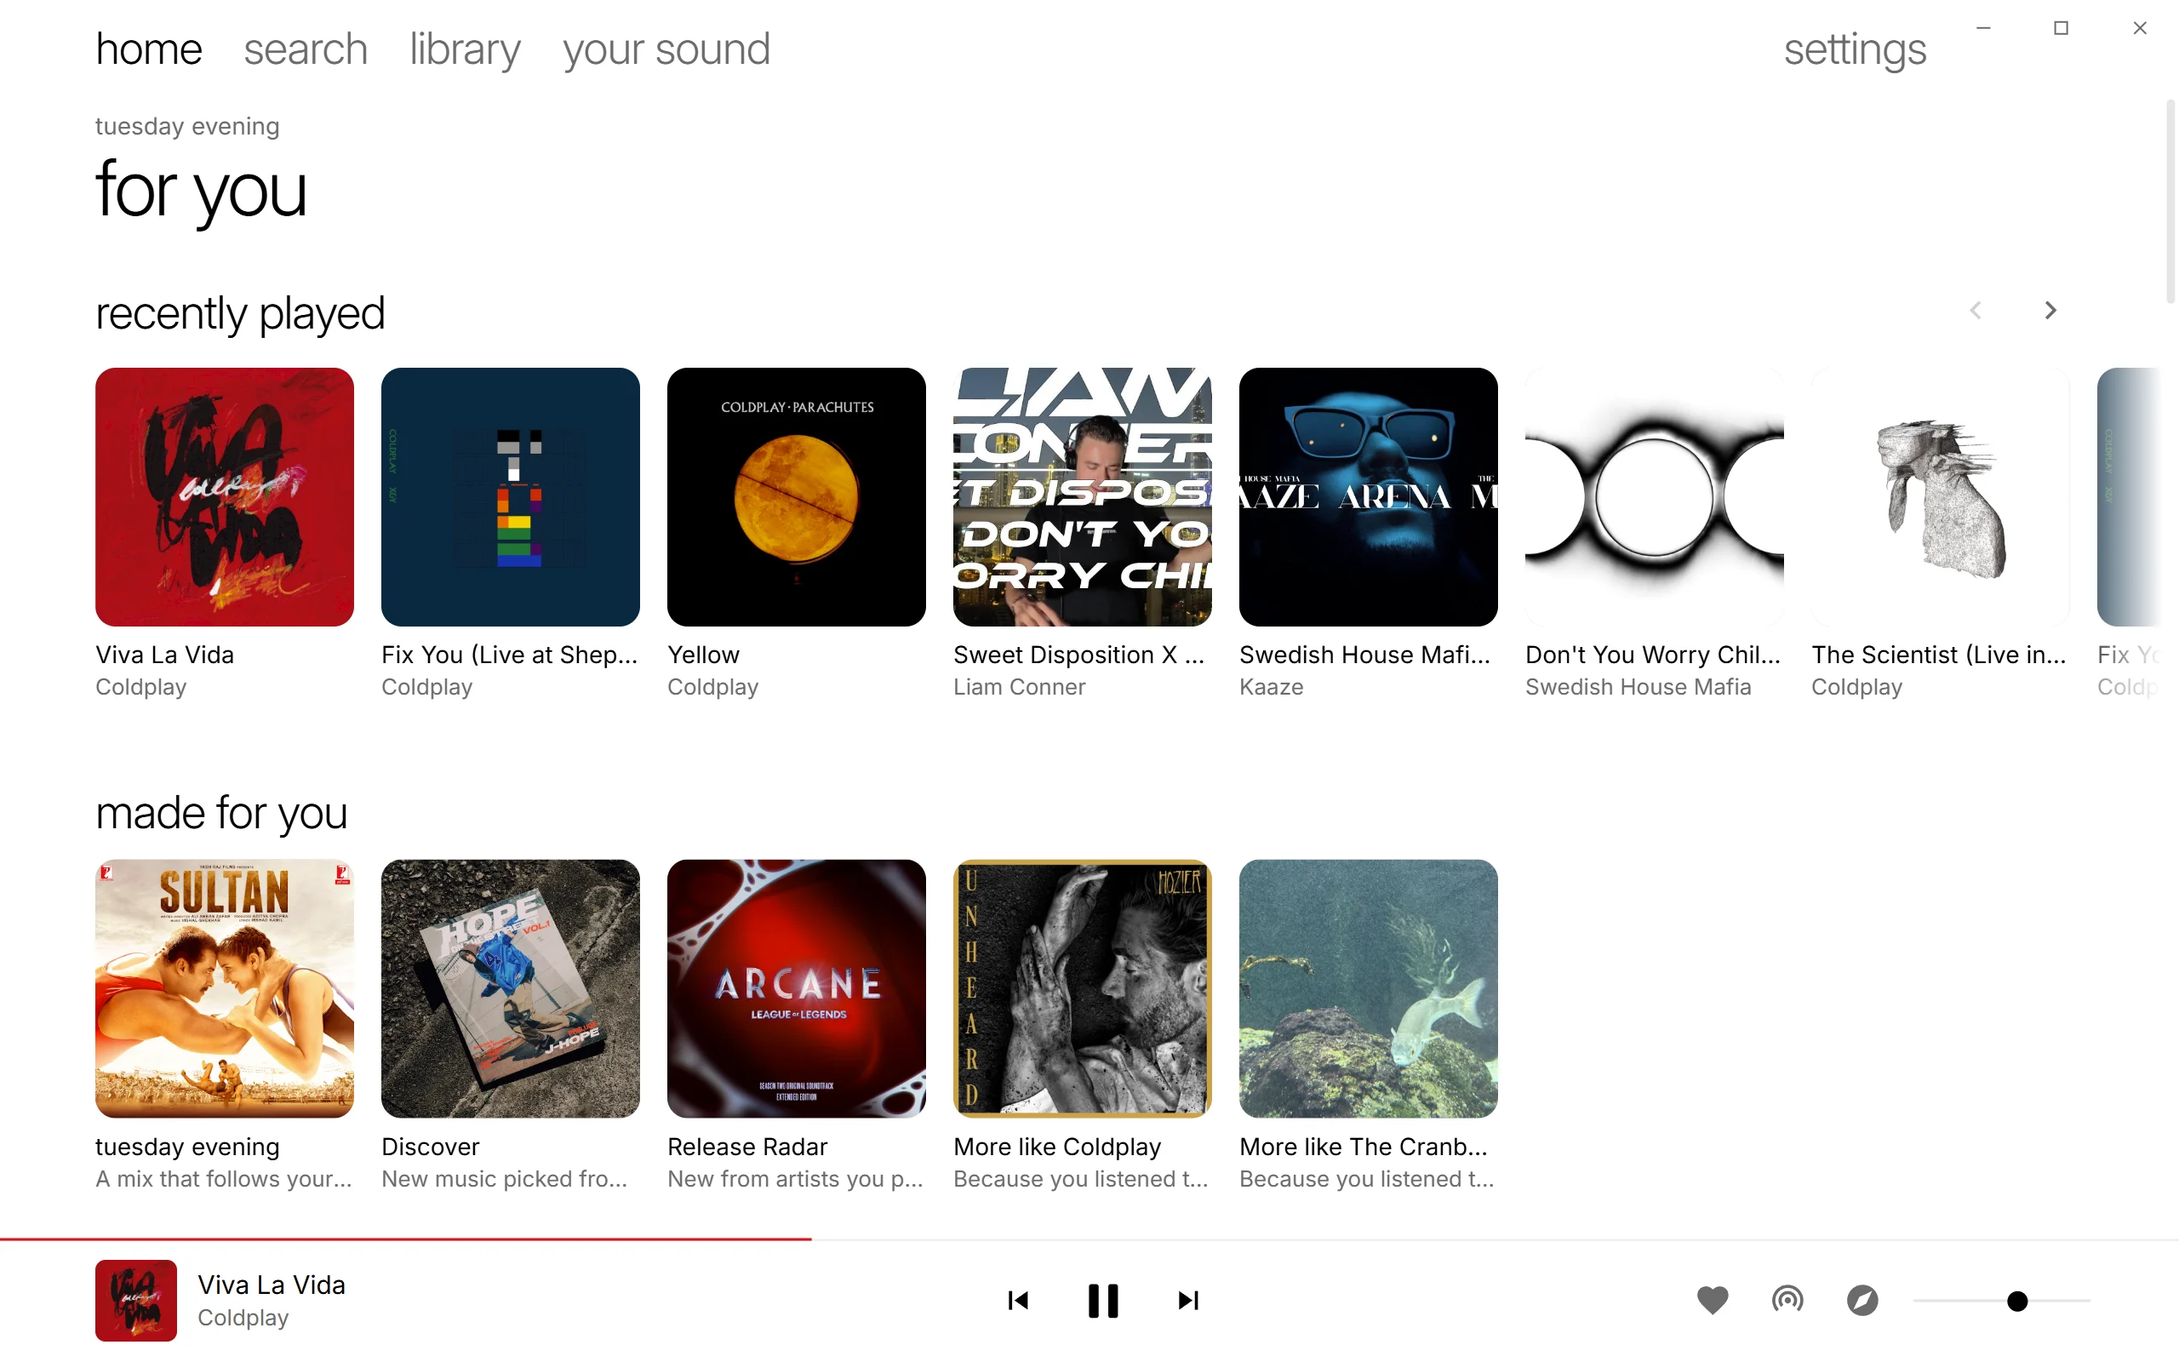
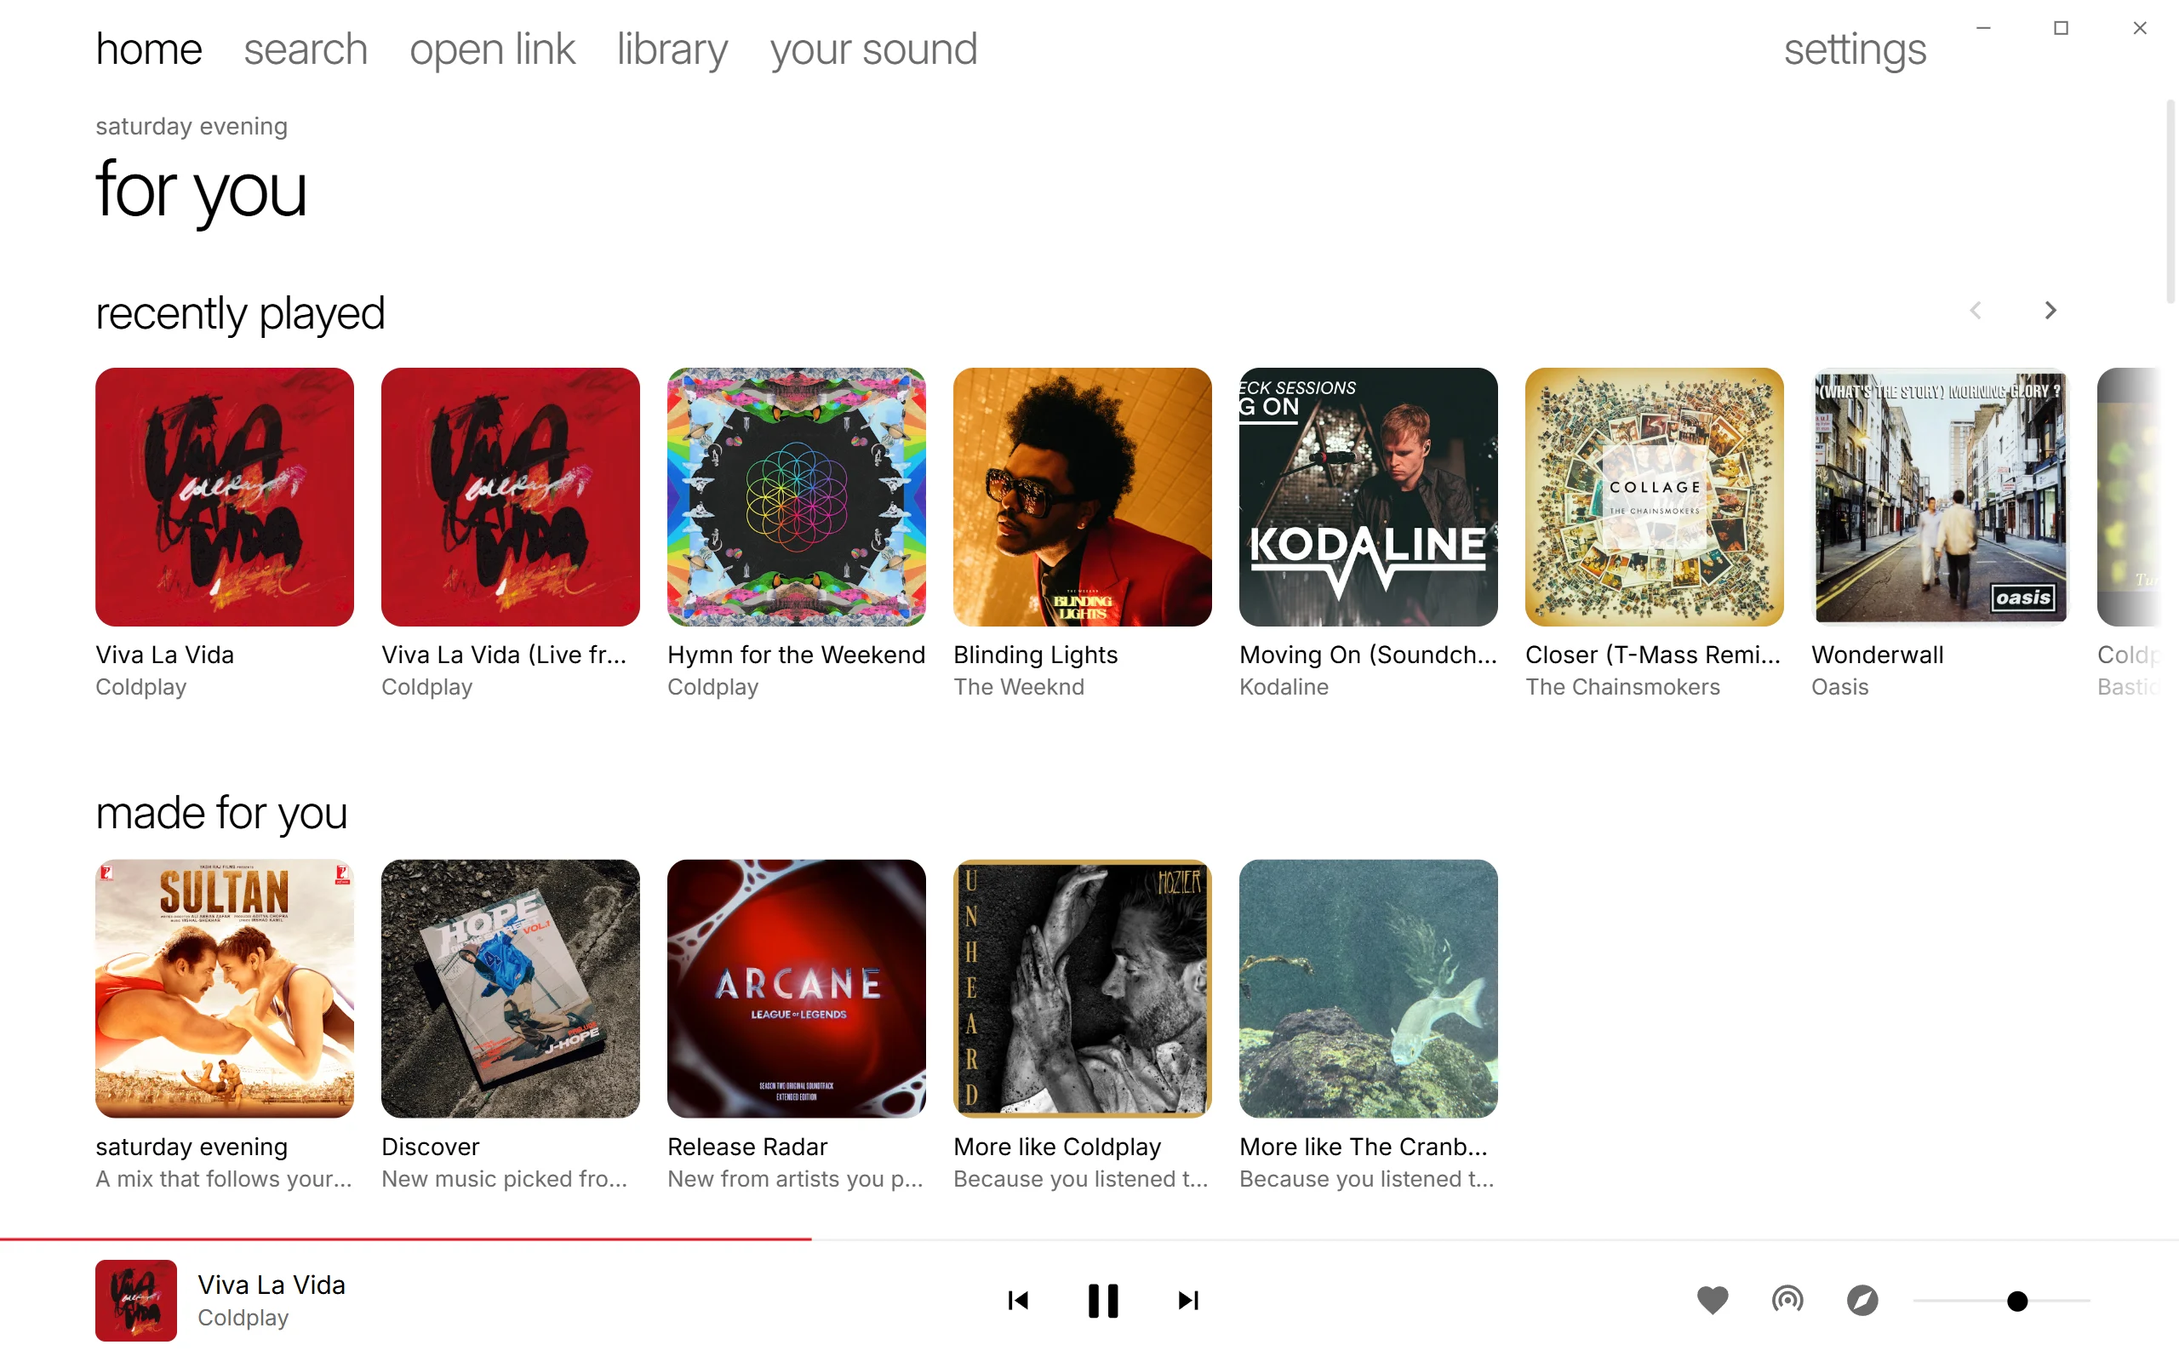
Verza, not Verza Next, and pictures of 1.15.0
The README still showed the liquid-glass build and described features that are gone. It now shows
the app as it is, with open link, and calls it Verza. The website's pictures are retaken on 1.15.0,
which has open link in the top bar, and the list of everything else gains it.

diff --git a/docs/index.html b/docs/index.html
@@ -19,7 +19,7 @@
 <link rel="preload" href="assets/inter.woff2" as="font" type="font/woff2" crossorigin>
 <script type="application/ld+json">
 [{
-  "@context": "https://schema.org", "@type": "SoftwareApplication", "name": "Verza Next",
+  "@context": "https://schema.org", "@type": "SoftwareApplication", "name": "Verza",
   "applicationCategory": "MultimediaApplication", "applicationSubCategory": "Music Player",
   "operatingSystem": "Windows 10, Windows 11, Linux",
   "description": "A free, ad-free YouTube Music player for Windows and Linux with lossless downloads, time-synced lyrics, an equaliser, and handover to and from the phone app.",
@@ -50,7 +50,7 @@
 /* Verza's website, in the apps' own design: a true black or white page, a name set very large and
    light in lowercase, buttons that are just the word, one 12px corner, and one accent. In the apps the
    accent comes from the cover of what's playing; here each section is a track with a colour of its
-   own, and the dock at the bottom plays the page. The numbers are style.css's in the Verza Next repo. */
+   own, and the dock at the bottom plays the page. The numbers are style.css's in the Verza repo. */
 @font-face {
   font-family: 'Inter'; font-style: normal; font-weight: 100 900; font-display: swap;
   src: url('assets/inter.woff2') format('woff2');
@@ -304,8 +304,8 @@ html:not(.playing) .i-pause, html.playing .i-play { display: none; }
     </div>
   </div>
   <div class="stage">
-    <img class="shot wide d" src="assets/next-player-dark.webp" width="2560" height="1600" alt="Verza Next's Now Playing screen: a red album cover with the song's spectrum drawn around it, over a slow red background made from the same cover">
-    <img class="shot wide l" src="assets/next-player-light.webp" width="2560" height="1600" alt="Verza Next's Now Playing screen in the light theme" loading="lazy">
+    <img class="shot wide d" src="assets/next-player-dark.webp" width="2560" height="1600" alt="Verza's Now Playing screen: a red album cover with the song's spectrum drawn around it, over a slow red background made from the same cover">
+    <img class="shot wide l" src="assets/next-player-light.webp" width="2560" height="1600" alt="Verza's Now Playing screen in the light theme" loading="lazy">
     <img class="shot tall d" src="assets/phone-nowplaying-dark.webp" width="1080" height="2400" alt="The same screen on the phone">
     <img class="shot tall l" src="assets/phone-nowplaying-light.webp" width="1080" height="2400" alt="The same screen on the phone, light" loading="lazy">
   </div>
@@ -466,7 +466,7 @@ html:not(.playing) .i-pause, html.playing .i-play { display: none; }
   </div>
 </section>
 
-<section id="rest" data-title="everything else" data-by="nineteen more">
+<section id="rest" data-title="everything else" data-by="twenty more">
   <div class="dateline" id="restCount">also on the record</div>
   <h2>everything else</h2>
   <ol class="tracks">
@@ -481,6 +481,7 @@ html:not(.playing) .i-pause, html.playing .i-play { display: none; }
     <li><span class="name">music you already have</span><span class="what">Files in your Music folder sit in the Library and play in the same queue.</span><span class="where">both</span></li>
     <li><span class="name">lossless sources</span><span class="what">Point Verza at a FLAC server of your own and it streams from there when it can.</span><span class="where">both</span></li>
     <li><span class="name">play a link</span><span class="what">Paste or share a YouTube link and the song plays.</span><span class="where">both</span></li>
+    <li><span class="name">open a spotify link</span><span class="what">Paste a Spotify or Apple Music playlist, album or song, and it opens here as a playlist, with its cover. Like it and it stays.</span><span class="where">computer</span></li>
     <li><span class="name">media keys and hotkeys</span><span class="what">Keyboard media keys, Windows' media overlay, and shortcuts that work in the background.</span><span class="where">computer</span></li>
     <li><span class="name">the tray</span><span class="what">Close the window and the music keeps going.</span><span class="where">computer</span></li>
     <li><span class="name">android auto</span><span class="what">Your library and queue on the car's screen.</span><span class="where">phone</span></li>
@@ -497,7 +498,7 @@ html:not(.playing) .i-pause, html.playing .i-play { display: none; }
   <h2>get it</h2>
   <div class="gets">
     <div>
-      <h3>verza next <span class="ver" id="nextVer"></span></h3>
+      <h3>for your computer <span class="ver" id="nextVer"></span></h3>
       <p class="quiet">For the computer. Windows 10 and 11, and Linux.</p>
       <div class="words" style="flex-direction:column;gap:0;padding-top:12px">
         <a class="word accent" id="getWin" href="https://github.com/SambuddhaRoy/Verza-Next-releases/releases/latest">windows installer</a>
@@ -507,7 +508,7 @@ html:not(.playing) .i-pause, html.playing .i-play { display: none; }
       <p class="note" style="padding-top:12px">Or <code>winget install SambuddhaRoy.VerzaNext</code></p>
     </div>
     <div>
-      <h3>verza <span class="ver" id="phoneVer"></span></h3>
+      <h3>for your phone <span class="ver" id="phoneVer"></span></h3>
       <p class="quiet">For the phone. Android 8 or later.</p>
       <div class="words" style="flex-direction:column;gap:0;padding-top:12px">
         <a class="word accent" id="getApk" href="https://github.com/SambuddhaRoy/Verza/releases/latest">android apk</a>
@@ -530,8 +531,8 @@ html:not(.playing) .i-pause, html.playing .i-play { display: none; }
 
 <footer>
   <div class="words">
-    <a class="word small" href="https://github.com/SambuddhaRoy/Verza-Next-releases/releases">verza next releases</a>
-    <a class="word small" href="https://github.com/SambuddhaRoy/Verza/releases">verza releases</a>
+    <a class="word small" href="https://github.com/SambuddhaRoy/Verza-Next-releases/releases">computer releases</a>
+    <a class="word small" href="https://github.com/SambuddhaRoy/Verza/releases">phone releases</a>
     <a class="word small" href="https://github.com/SambuddhaRoy/Verza">phone source</a>
     <a class="word small" href="https://github.com/SambuddhaRoy">sambuddha roy</a>
   </div>

diff --git a/README.md b/README.md
@@ -1,78 +1,66 @@
 <div align="center">
 
-# Verza&nbsp;Next
+# Verza
 
-### A translucent, liquid-glass music player for Windows
+### A music player for Windows and Linux
 
-Anonymous · audio-only · every animation hand-tuned.<br/>
-Instant-start playback, offline downloads, synced lyrics, a 10-band EQ,
-and a flowing album-art background that always matches what's playing.
+YouTube Music without the ads, downloads in lossless, lyrics in time,<br/>
+and one accent colour taken from the cover of whatever is playing.
 
 <p>
-  <a href="../../releases/latest"><img alt="Download" src="https://img.shields.io/github/v/release/SambuddhaRoy/Verza-Next-releases?style=for-the-badge&label=Download&color=5a6ff0&logo=windows&logoColor=white" /></a>
-  <img alt="Windows 10/11" src="https://img.shields.io/badge/Windows%2010%20·%2011-8ea8ff?style=for-the-badge&logo=windows&logoColor=white" />
-  <img alt="Free" src="https://img.shields.io/badge/Free%20·%20no%20ads%20·%20no%20tracking-6a7cf0?style=for-the-badge" />
+  <a href="../../releases/latest"><img alt="Download" src="https://img.shields.io/github/v/release/SambuddhaRoy/Verza-Next-releases?style=for-the-badge&label=Download&color=d6246e" /></a>
+  <img alt="Windows and Linux" src="https://img.shields.io/badge/Windows%20·%20Linux-333333?style=for-the-badge" />
+  <img alt="Free" src="https://img.shields.io/badge/Free%20·%20no%20ads%20·%20no%20tracking-333333?style=for-the-badge" />
 </p>
 
-### ⬇ **[Download Verza Next for Windows](../../releases/latest)**
+### **[Download Verza](../../releases/latest)** · **[Website](https://sambuddharoy.github.io/Verza-Next-releases/)** · **[Verza for Android](https://github.com/SambuddhaRoy/Verza)**
 
-**[verza next website →](https://sambuddharoy.github.io/Verza-Next-releases/)**
+<br/>
 
----
+<img src="docs/assets/next-player-dark.webp" alt="Now Playing: a red album cover with the song's spectrum drawn around it, over a slow red background made from the same cover" width="100%" />
 
-## Screenshots
+<img src="docs/assets/next-home-dark.webp" alt="Home: recently played, then mixes made for you" width="49%" />
+<img src="docs/assets/next-link-light.webp" alt="A Spotify album opened in Verza, in the light theme" width="49%" />
 
-<div align="center">
-  <img src="assets/shot-player.png" alt="Verza Next playing twenty one pilots — album art centred on a flowing red background drawn from the cover" width="48%" />
-  <img src="assets/shot-player-alt.png" alt="Verza Next playing SZA — album art centred on a flowing blue background drawn from the cover" width="48%" />
+<img src="docs/assets/next-lyrics-dark.webp" alt="Lyrics in place of the cover, the line being sung in white" width="49%" />
+<img src="docs/assets/next-downloaded-light.webp" alt="Library, downloaded: albums in a grid, in the light theme" width="49%" />
+
 </div>
 
-</div>
-
-> **Not affiliated with YouTube or Google.** Verza is an independent personal project. It plays
-> publicly-available music through YouTube's own endpoints — it bundles no copyrighted media, ships no
-> API keys, and stores nothing on any server. For personal use.
+> **Not affiliated with YouTube or Google.** Verza is one person's project, for personal use. It plays
+> music through YouTube's own endpoints, bundles no music, ships no API keys, and has no server of its own.
 
 ---
 
-## Install in 3 steps
+## Install
 
-1. **Download** `VerzaNext_x.y.z_x64-setup.exe` from the **[latest release](../../releases/latest)**.
-2. **Run it.** Windows will likely warn you with a blue *"Windows protected your PC"* screen — this is
-   normal for apps that aren't code-signed by a big company (a certificate costs hundreds a year).
-   Click **More info → Run anyway**.
-3. **Open Verza Next.** Choose **Sign in** for your YouTube Music library, or **Skip** — full-length
-   playback works either way.
+**Windows 10 or 11 (64-bit).** Download `VerzaNext_x.y.z_x64-setup.exe` from the **[latest release](../../releases/latest)** and run it, or:
 
-Verza Next **keeps itself up to date**: it checks on launch and installs on the next restart.
+```
+winget install SambuddhaRoy.VerzaNext
+```
 
----
+Windows will probably show a blue *"Windows protected your PC"* screen, because the installer isn't code-signed. Choose **More info**, then **Run anyway**.
 
-## Your first minute
+**Linux.** The release has a `.deb` and an AppImage. Signing in needs Edge, Chrome, Chromium or Brave installed.
 
-- **Search** anything at the top → click a song to play, or an album/artist to open it.
-- Press **▶** — audio starts in well under a second and stays seekable while it loads.
-- Click the cover for **Now Playing**: synced karaoke lyrics, a live visualizer, and the flowing
-  cover-art background.
-- Hit **♥** to save a song. Playing one starts a **radio** that keeps going — or pick
-  **Discovery radio** for songs and artists you've never heard.
-- Right-click almost anything for actions: play next, add to queue, like, download, go to artist.
+Then open Verza and either **sign in** to YouTube Music, so your likes, playlists and Home come with you, or **skip** it. Everything except your account's library works without signing in.
+
+Verza updates itself: it checks when it starts and every few hours while it's open.
 
 ---
 
 ## What it does
 
-- ⚡ **Instant-start playback**, full-length, even signed out
-- ⬇ **Offline downloads** — a song, an album, or a whole playlist; plays with no connection
-- 🎧 **Discovery radio** — genuinely new music every time, never the same rotation twice
-- 🎚 **10-band EQ**, crossfade, playback speed, and output-device picking
-- 🎤 **Real time-synced lyrics** that light up in time with the track
-- 📊 **Your Sound** — your listening story (top artists, when you listen, comfort songs), computed on your device
-- 💜 **Your library** — liked songs, recents, and your own playlists
-- 📥 **Import** from **Spotify** or a playlist **JSON** (Apple Music, Deezer, TIDAL, Soundiiz…)
-- 🎨 **Liquid glass** — real Windows acrylic, six accent palettes plus **Adaptive** (colour from the cover), light & dark
-- 🖥 **Desktop-native** — system tray, media keys, global hotkeys, launch at startup, notifications
-- 🌙 **Sleep timer**, **wind down**, **gentle start**, and **resume where you left off**
+- **Plays the whole YouTube Music catalogue**, full length, without ads, signed in or not.
+- **Opens Spotify and Apple Music links.** Paste a playlist, album or song and it opens as a playlist, with its cover. Like it and it stays in your Library.
+- **Downloads in lossless.** Turn it on and a download becomes a FLAC from Soulseek, the highest resolution on offer. Verza makes the account for you. Otherwise it saves M4A or MP3, filed by artist and album.
+- **Lyrics** that follow the song, line by line.
+- **Home made from what you play**: recently played, on repeat, forgotten favourites, and mixes built on your machine. **Discovery radio** finds artists you haven't heard.
+- **Your Sound** names your genre and plays it.
+- **Flick it over.** With Verza on your phone, flick toward your screen and the song carries on here, queue and all.
+- **The music you already have**: your Music folder sits in the Library and plays in the same queue.
+- A ten-band **equaliser**, fades between songs, volume normalisation, output device, sleep timer, media keys, the tray, and a light and a dark theme.
 
 ---
 
@@ -82,39 +70,39 @@ Verza Next **keeps itself up to date**: it checks on launch and installs on the 
 <summary><b>Is it safe? Why does Windows warn me?</b></summary>
 <br/>
 
-The app isn't code-signed (those certificates are expensive), so Windows SmartScreen shows a warning for any unrecognised installer. Choose **More info → Run anyway**. Verza talks to no server of its own.
+The installer isn't code-signed (the certificates cost hundreds a year), so SmartScreen warns about it. Choose **More info**, then **Run anyway**. Verza talks to no server of its own.
 </details>
 
 <details>
 <summary><b>Do I need a YouTube account?</b></summary>
 <br/>
 
-No. Playback, search, radio, lyrics and downloads all work signed out. Signing in only adds your personalised home feed and your YouTube Music library.
+No. Playback, search, radio, lyrics and downloads all work signed out. Signing in adds your YouTube Music library, and a like in Verza becomes a like on your account.
 </details>
 
 <details>
 <summary><b>Where is my data stored?</b></summary>
 <br/>
 
-In a folder on your PC (`%USERPROFILE%\.verza`) — library, settings, and downloads. If you sign in, the login is kept only on your machine and never appears in a backup or export.
+On your computer, in `~/.verza` (`%USERPROFILE%\.verza` on Windows). Downloads go to your Music folder. If you sign in, the login stays on your machine and is never in a backup or export.
 </details>
 
 <details>
-<summary><b>How do updates work?</b></summary>
+<summary><b>Why do the files and the winget package say "VerzaNext"?</b></summary>
 <br/>
 
-Automatically — Verza Next checks on launch, and you can also check any time from **Settings → Check for updates**. New versions install on restart, and a **What's new** card shows what changed.
+It was called Verza Next while it replaced the first desktop Verza. Renaming the installer and the package would break updates for everyone who already has it, so those keep the old name.
 </details>
 
 <details>
-<summary><b>Is there a Mac or Linux build?</b></summary>
+<summary><b>Is there a Mac build?</b></summary>
 <br/>
 
-Not yet — Windows 10/11 (64-bit) today.
+Not yet. Windows and Linux today.
 </details>
 
 ---
 
 <div align="center">
-<sub><b>Verza Next</b> — a personal project, shared for personal use. Not affiliated with YouTube or Google.</sub>
+<sub><b>Verza</b>, a personal project shared for personal use. Not affiliated with YouTube or Google.</sub>
 </div>
